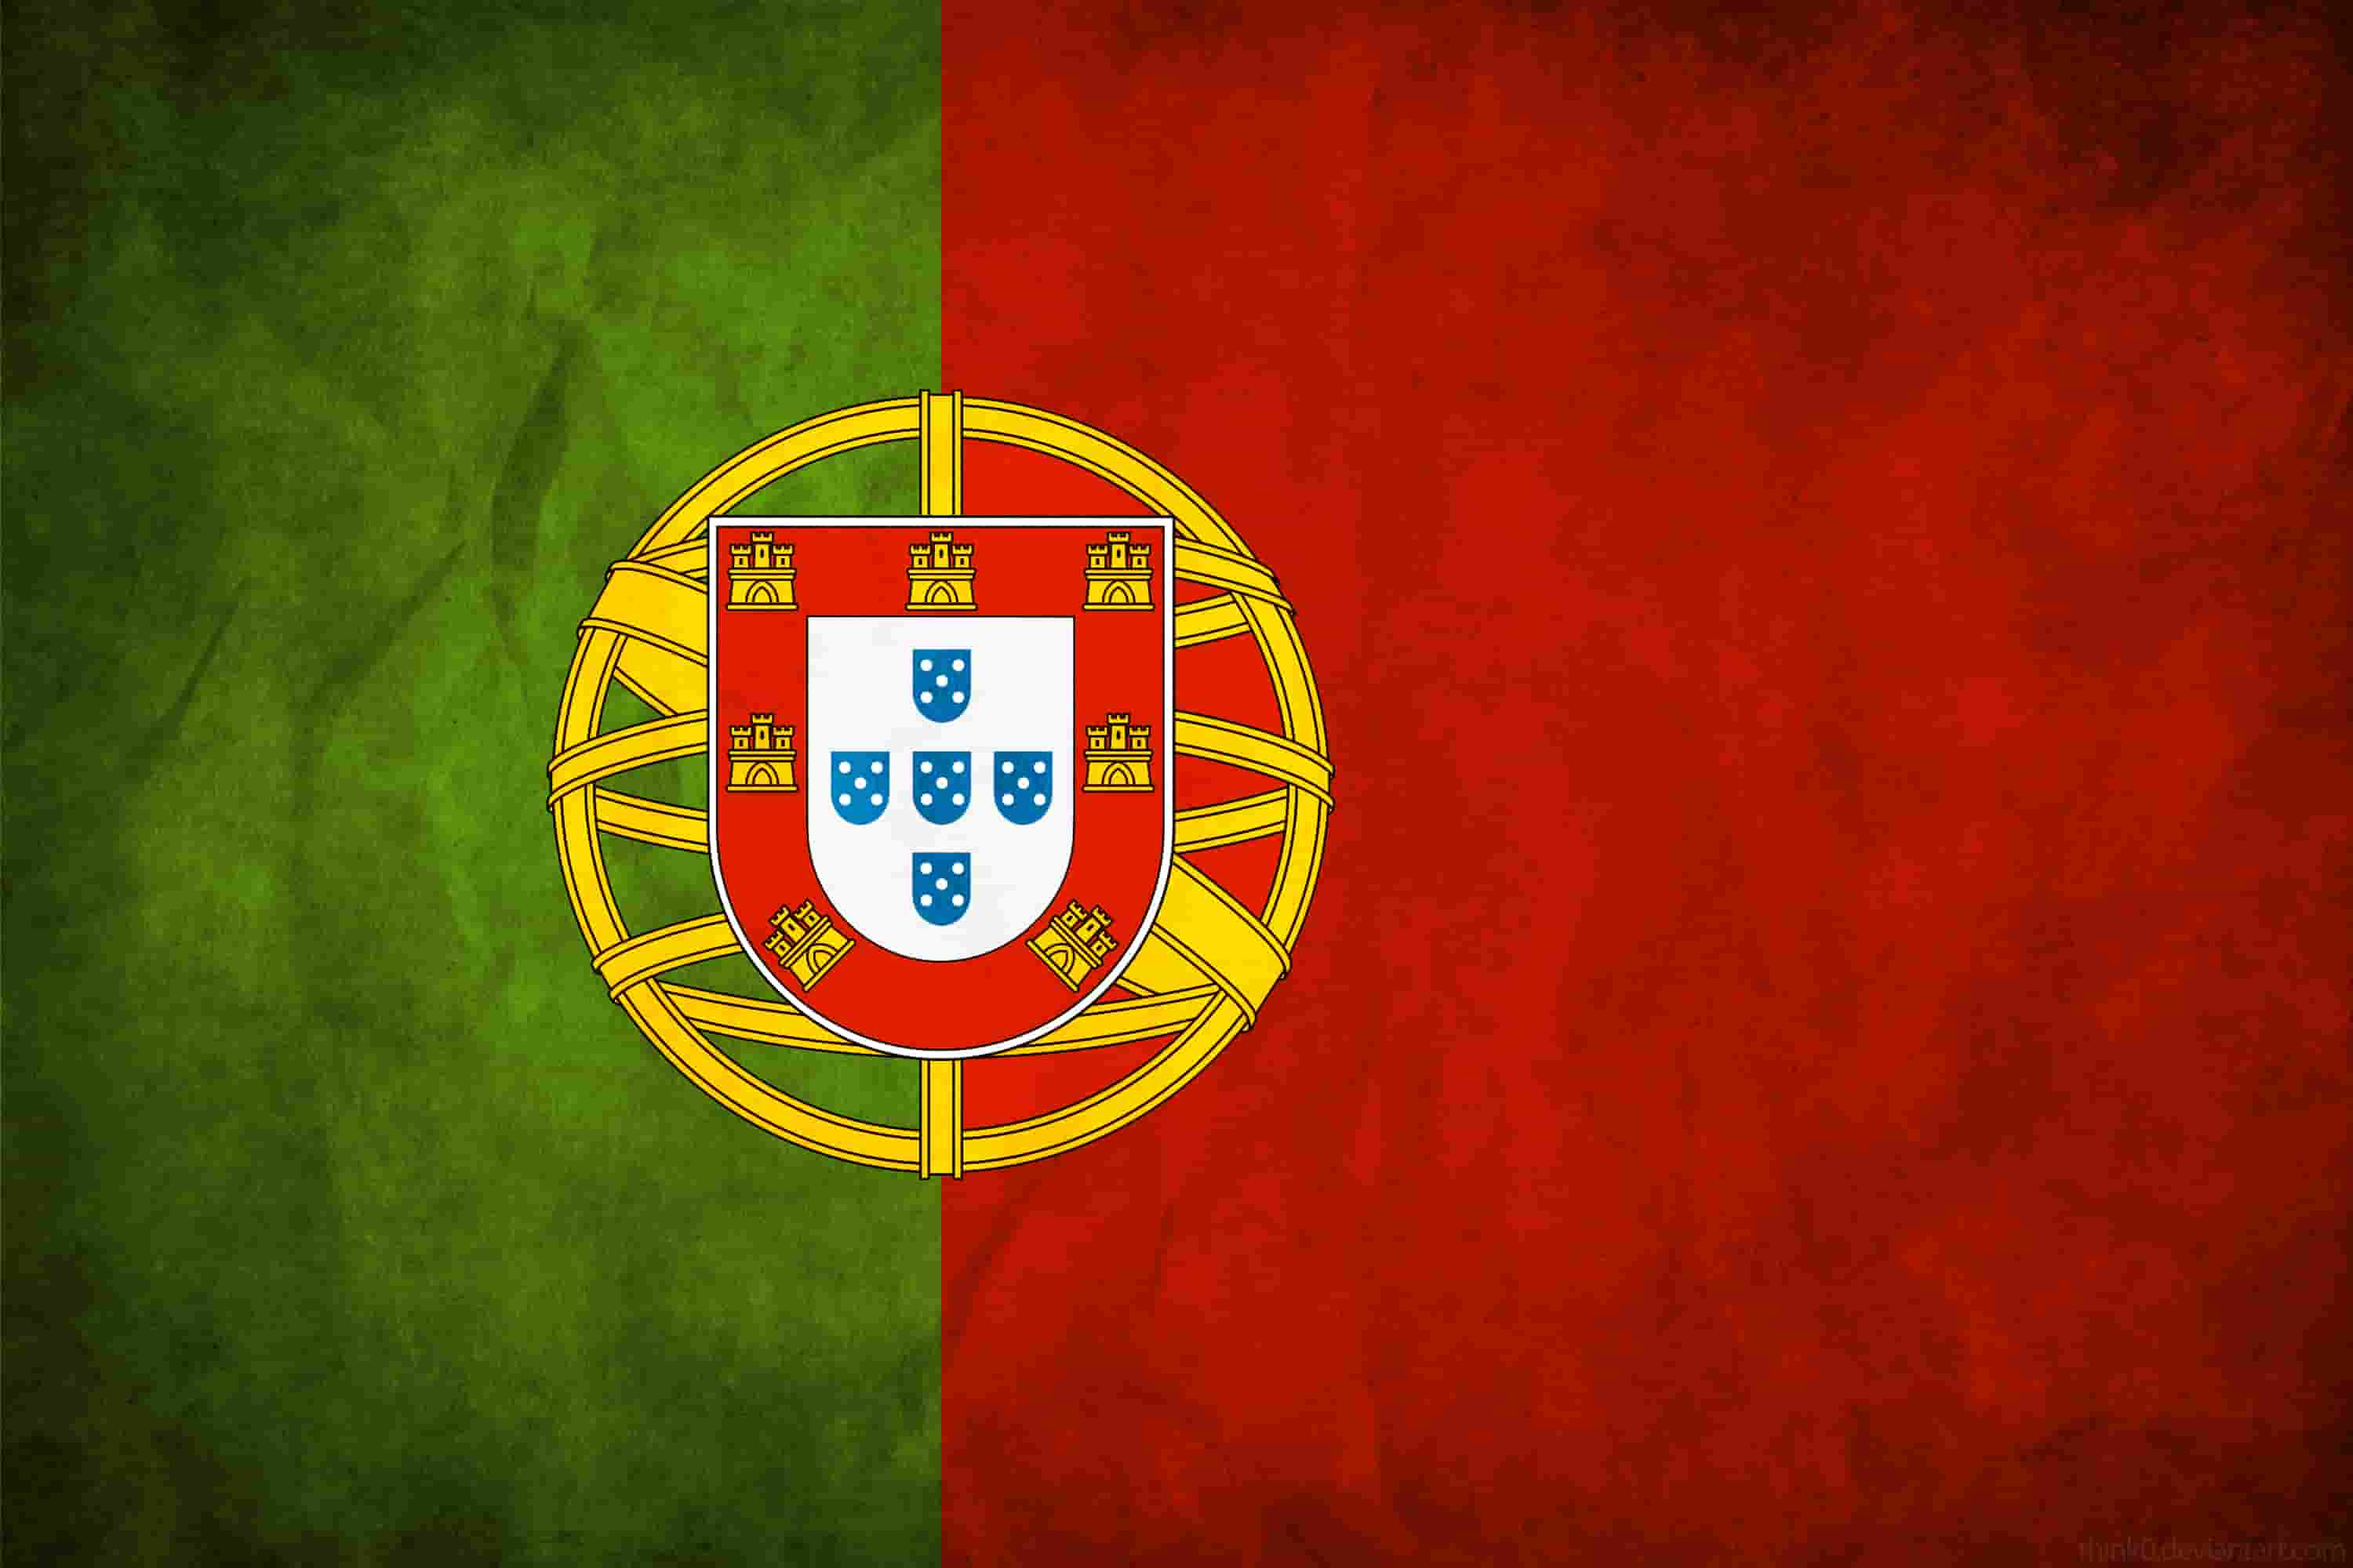
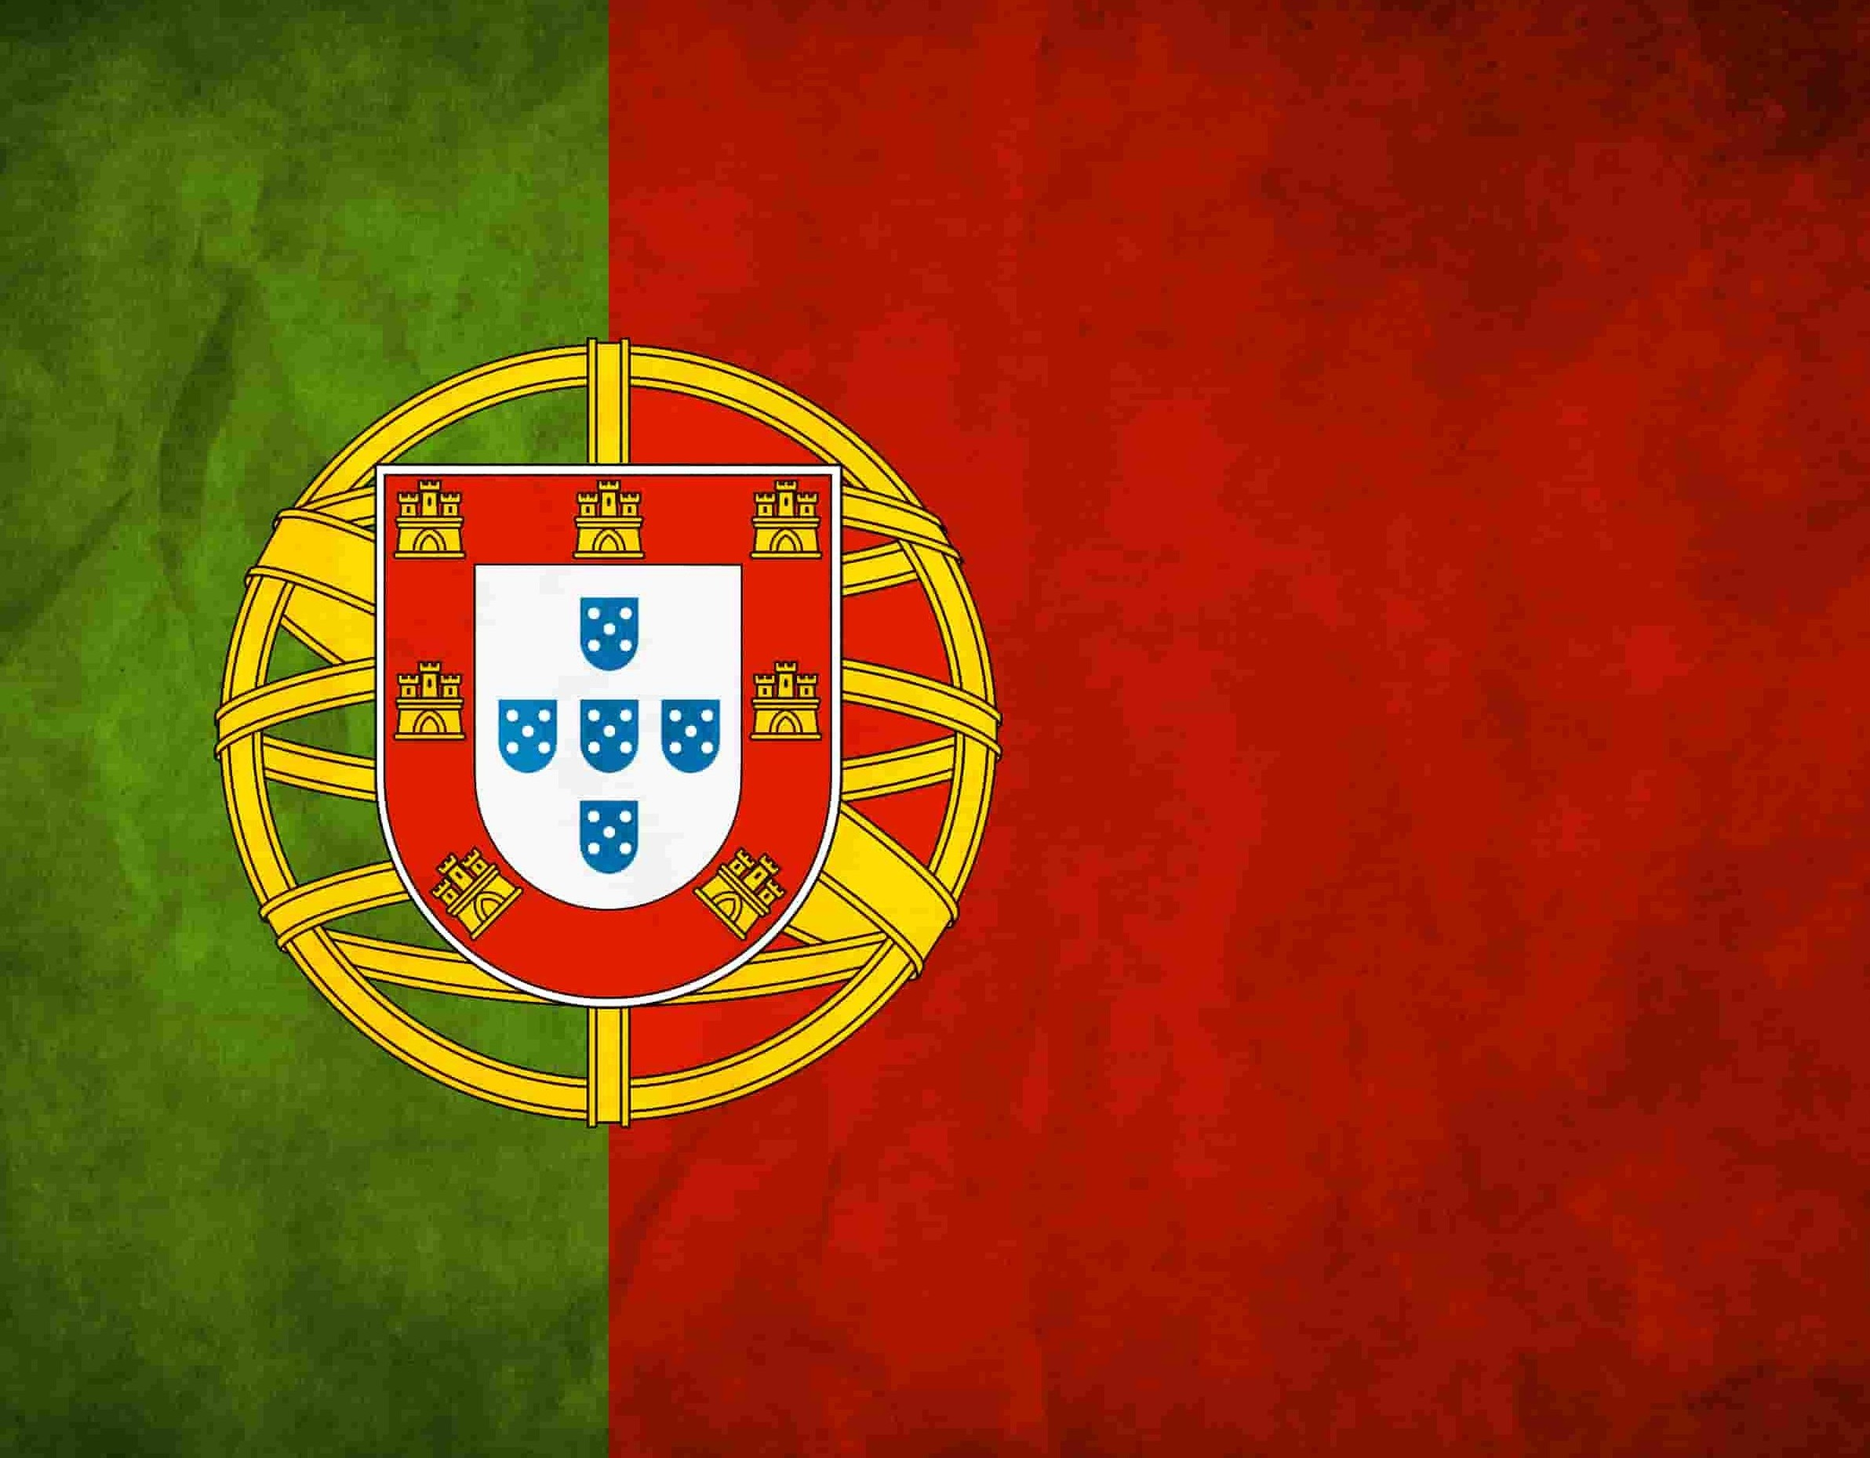
images cropped

diff --git a/css/style.css b/css/style.css
@@ -204,13 +204,13 @@ body {
 }
 
 #history {
-	background-image: url(https://image.flaticon.com/icons/svg/859/859170.svg);
+	background-image: url(../img/history.svg);
 }
 #beaches {
-	background-image: url(https://image.flaticon.com/icons/svg/452/452892.svg);
+	background-image: url(../img/beaches.svg);
 }
 #food {
-	background-image: url(https://image.flaticon.com/icons/svg/325/325562.svg);
+	background-image: url(../img/food.svg);
 }
 
 #trailer {
@@ -251,30 +251,22 @@ body {
 
 #pt-continental {
 	background-image: url(../img/flag-pt.jpg);
-	background-position-x: -25px;
 }
 #pt-madeira {
 	background-image: url(../img/flag-madeira.jpg);
-	background-position: center;
 }
 #pt-azores {
 	background-image: url(../img/flag-azores.jpg);
-	background-position-x: -27px;
 }
 
 #pt-continental:hover {
 	background-image: url(../img/hover-pt.jpg);
-	background-position-x: -45px;
 }
 #pt-madeira:hover {
 	background-image: url(../img/hover-madeira.jpg);
-	background-position-x: -68px;
 }
 #pt-azores:hover {
 	background-image: url(../img/hover-azores.jpg);
-	background-position-x: -45px;
-	background-position-y: -10px;
-	background-size: auto 120%;
 }
 
 #visit {
@@ -351,7 +343,6 @@ body {
 
 #lisbon {
 	background-image: url(../img/lisbon.jpg);
-	background-size: 115% auto;
 }
 #aveiro {
 	background-image: url(../img/aveiro.jpg);
@@ -364,14 +355,12 @@ body {
 }
 #braga {
 	background-image: url(../img/braga.jpg);
-	background-size: auto 100%;
 }
 #sao-miguel {
 	background-image: url(../img/sao-miguel.jpg);
 }
 #funchal {
 	background-image: url(../img/funchal.jpg);
-	background-size: auto 100%;
 }
 #azenhas-do-mar {
 	background-image: url(../img/azenhas-do-mar.jpg);

diff --git a/index.html b/index.html
@@ -192,7 +192,7 @@
 				>Sketch Credits</a
 			>
 			| Made with ❤ by
-			<a id="dev-contact" target="_blank" href="https://github.com/anagilda"
+			<a id="dev-contact" target="_blank" href="https://github.com/anagilda/"
 				>Ana Rodrigues</a
 			>
 		</div>
